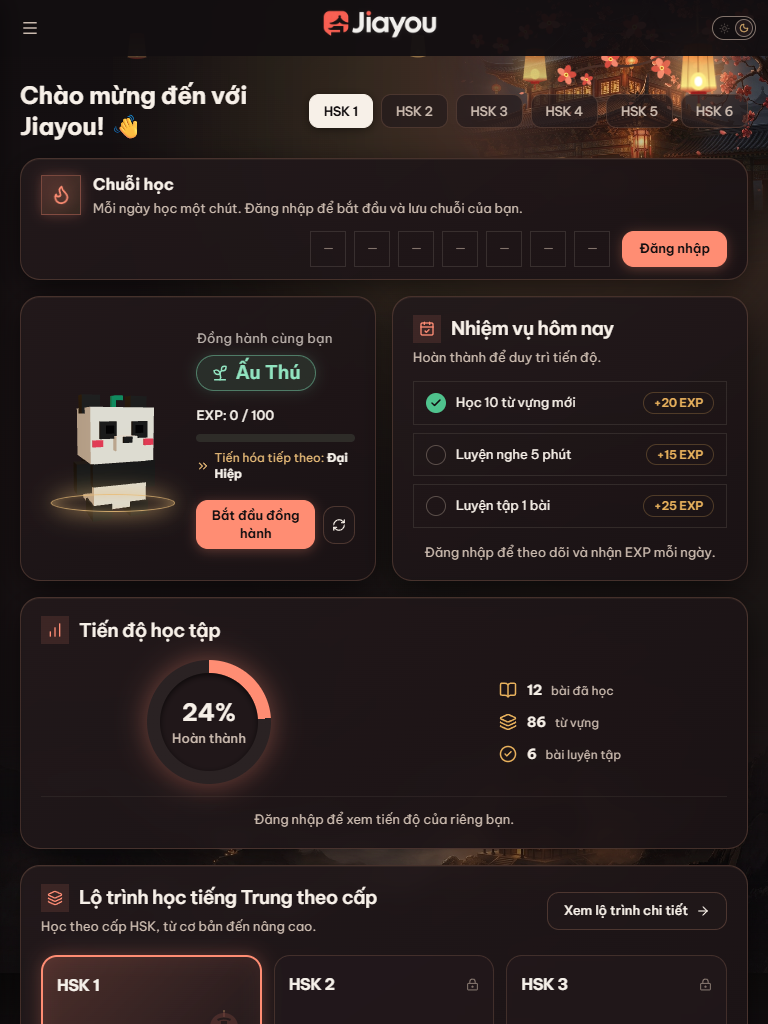
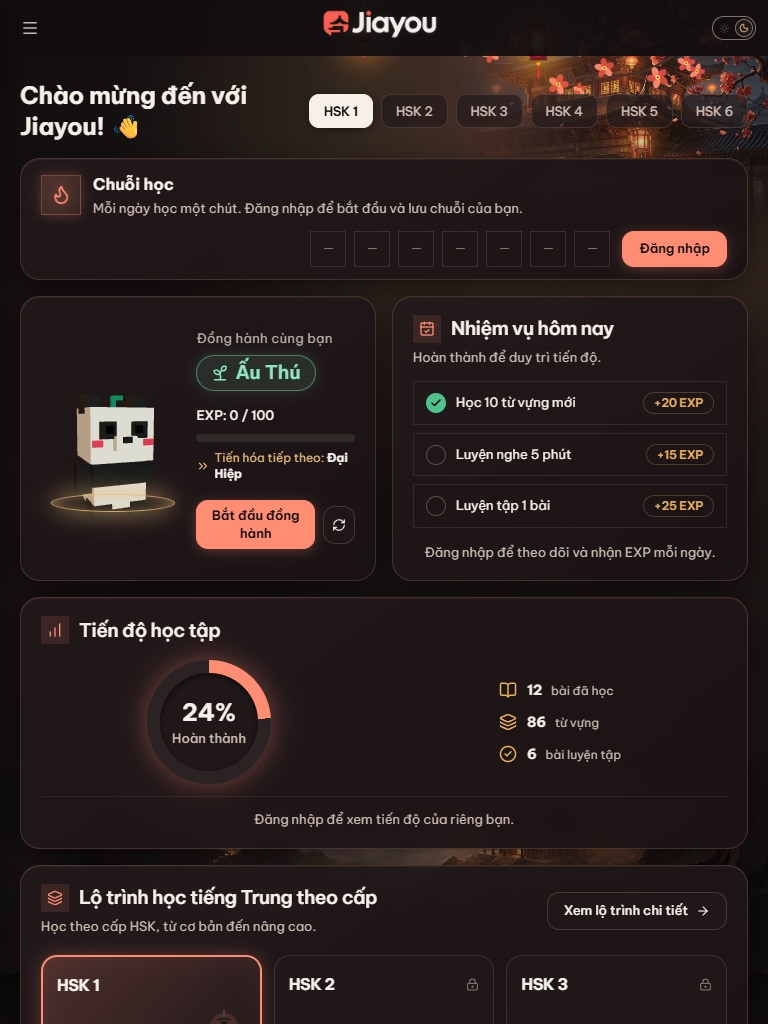
fix(ui): upgrade lanterns to authentic Chinese palace lanterns matching approved reference

Changed region(s): [[0.625, 0.0312, 0.8125, 0.0938], [0.8438, 0.0312, 0.9688, 0.125], [0.4375, 0.0312, 0.5, 0.0625]]

diff --git a/frontend/src/components/OrientalDecorBackground.tsx b/frontend/src/components/OrientalDecorBackground.tsx
@@ -4,12 +4,130 @@ import { useEffect, useState } from 'react';
  * OrientalDecorBackground:
  * Authentic Chinese Imperial Night Sky & Citadel Atmosphere matching the approved reference design.
  * Features:
- * 1. Warm glowing hanging lanterns (Khổng Minh Đăng - 孔明灯) with radiant amber glow & gentle sway.
+ * 1. Traditional Chinese Palace Lanterns (Cung Đăng - 宫灯) with radiant amber glow & gentle sway.
  * 2. Ancient Chinese imperial citadel / palace / capital silhouette (Hoàng Thành & Môn Lâu) in top-right.
  * 3. Blooming vermilion cherry blossom branches (Cành Đào Son) in top-right with drifting petals.
  * 4. Layered Three Kingdoms mountain pass & illuminated ancient pagoda on the misty horizon.
  * 5. Multi-layer ambient warm lighting gradients (#120E10, #181214, #FF8D73).
  */
+interface LanternProps {
+  width?: number;
+  height?: number;
+  stringHeight?: number;
+  glowInset?: number;
+  glowBlur?: number;
+  glowOpacity?: number;
+}
+
+function ChinesePalaceLantern({
+  width = 38,
+  height = 60,
+  stringHeight = 22,
+  glowInset = -16,
+  glowBlur = 14,
+  glowOpacity = 0.55,
+}: LanternProps) {
+  return (
+    <div className="relative flex flex-col items-center select-none">
+      {/* Hanging silk cord */}
+      <div
+        className="w-[1.2px] bg-gradient-to-b from-[#78716C] via-[#B45309] to-[#F59E0B] opacity-80"
+        style={{ height: `${stringHeight}px` }}
+      />
+      <div
+        className="relative"
+        style={{ width: `${width}px`, height: `${height}px`, marginTop: '-2px' }}
+      >
+        {/* Layer 1: Intense Inner Amber Halo */}
+        <div
+          className="absolute rounded-full pointer-events-none"
+          style={{
+            inset: `${glowInset}px`,
+            background: `radial-gradient(circle, rgba(251, 191, 36, ${glowOpacity}) 0%, rgba(249, 115, 22, ${glowOpacity * 0.6}) 40%, rgba(220, 38, 38, ${glowOpacity * 0.22}) 65%, transparent 80%)`,
+            filter: `blur(${glowBlur}px)`,
+          }}
+        />
+        {/* Layer 2: Soft Atmospheric Night Room Glow */}
+        <div
+          className="absolute rounded-full pointer-events-none"
+          style={{
+            inset: `${glowInset * 1.8}px`,
+            background: `radial-gradient(circle, rgba(255, 141, 115, ${glowOpacity * 0.35}) 0%, rgba(243, 193, 111, ${glowOpacity * 0.2}) 45%, transparent 75%)`,
+            filter: `blur(${glowBlur * 1.7}px)`,
+          }}
+        />
+
+        <svg
+          viewBox="0 0 48 76"
+          fill="none"
+          className="w-full h-full drop-shadow-[0_0_14px_rgba(251,191,36,0.65)]"
+        >
+          <defs>
+            <radialGradient id="lantern-body-grad" cx="50%" cy="46%" r="52%">
+              <stop offset="0%" stopColor="#FFFFFF" />
+              <stop offset="16%" stopColor="#FEF08A" />
+              <stop offset="42%" stopColor="#FBBF24" />
+              <stop offset="68%" stopColor="#F97316" />
+              <stop offset="86%" stopColor="#DC2626" />
+              <stop offset="100%" stopColor="#881337" />
+            </radialGradient>
+            <linearGradient id="lantern-cap-grad" x1="0%" y1="0%" x2="0%" y2="100%">
+              <stop offset="0%" stopColor="#6B1D1D" />
+              <stop offset="100%" stopColor="#2D0606" />
+            </linearGradient>
+            <filter id="lantern-flame-blur" x="-30%" y="-30%" width="160%" height="160%">
+              <feGaussianBlur stdDeviation="2" />
+            </filter>
+          </defs>
+
+          {/* Top suspension loop */}
+          <circle cx="24" cy="2.5" r="2" stroke="#B45309" strokeWidth="0.9" fill="none" />
+
+          {/* Top Cap (Mahogany / Oxblood wooden lid with gold accent) */}
+          <rect x="13" y="4" width="22" height="3.2" rx="1.2" fill="url(#lantern-cap-grad)" />
+          <line x1="14" y1="4.6" x2="34" y2="4.6" stroke="#FBBF24" strokeWidth="0.6" opacity="0.8" />
+
+          {/* Traditional Chinese Barrel Silk Body */}
+          <path
+            d="M 14 7 Q 24 6.2 34 7 Q 38 28 34 49 Q 24 49.8 14 49 Q 10 28 14 7 Z"
+            fill="url(#lantern-body-grad)"
+          />
+
+          {/* Vertical Bamboo Ribs (Nan tre dọc 3D) */}
+          <line x1="24" y1="7" x2="24" y2="49" stroke="#78350F" strokeWidth="0.8" opacity="0.65" />
+          <path d="M 19 7 Q 15 28 19 49" stroke="#78350F" strokeWidth="0.75" fill="none" opacity="0.55" />
+          <path d="M 29 7 Q 33 28 29 49" stroke="#78350F" strokeWidth="0.75" fill="none" opacity="0.55" />
+          <path d="M 14 7 Q 10 28 14 49" stroke="#991B1B" strokeWidth="0.85" fill="none" opacity="0.5" />
+          <path d="M 34 7 Q 38 28 34 49" stroke="#991B1B" strokeWidth="0.85" fill="none" opacity="0.5" />
+
+          {/* Horizontal Structural Rings (Nan vành ngang lụa) */}
+          <path d="M 11.8 19 Q 24 21.5 36.2 19" stroke="#9A3412" strokeWidth="0.65" fill="none" opacity="0.5" />
+          <path d="M 10 28 Q 24 31 38 28" stroke="#9A3412" strokeWidth="0.65" fill="none" opacity="0.5" />
+          <path d="M 11.8 37 Q 24 39.5 36.2 37" stroke="#9A3412" strokeWidth="0.65" fill="none" opacity="0.5" />
+
+          {/* Glowing Candle Flame Core */}
+          <ellipse cx="24" cy="27" rx="8" ry="10.5" fill="#FEF08A" opacity="0.85" filter="url(#lantern-flame-blur)" />
+          <ellipse cx="24" cy="27" rx="4" ry="6" fill="#FFFFFF" opacity="0.95" />
+
+          {/* Bottom Cap (Mahogany / Oxblood collar with gold accent) */}
+          <rect x="13" y="48.8" width="22" height="3.2" rx="1.2" fill="url(#lantern-cap-grad)" />
+          <line x1="14" y1="51.4" x2="34" y2="51.4" stroke="#FBBF24" strokeWidth="0.6" opacity="0.8" />
+
+          {/* Golden Bead (Hạt ngọc hoàng kim) */}
+          <line x1="24" y1="52" x2="24" y2="54.5" stroke="#B91C1C" strokeWidth="1.2" />
+          <circle cx="24" cy="56" r="2.2" fill="#FBBF24" stroke="#D97706" strokeWidth="0.5" />
+
+          {/* Flowing Red Silk Tassel (Tua rua lụa đỏ - 流苏) */}
+          <path d="M 22.8 58.2 L 25.2 58.2 L 25.8 72.5 L 24 75 L 22.2 72.5 Z" fill="#DC2626" opacity="0.95" />
+          <line x1="23.2" y1="58.5" x2="22.6" y2="72.5" stroke="#B91C1C" strokeWidth="0.75" opacity="0.85" />
+          <line x1="24.8" y1="58.5" x2="25.4" y2="72.5" stroke="#B91C1C" strokeWidth="0.75" opacity="0.85" />
+          <line x1="24" y1="58.5" x2="24" y2="74" stroke="#F87171" strokeWidth="0.85" opacity="0.9" />
+        </svg>
+      </div>
+    </div>
+  );
+}
+
 export function OrientalDecorBackground() {
   const [isScrolled, setIsScrolled] = useState(false);
 
@@ -61,7 +179,7 @@ export function OrientalDecorBackground() {
       </div>
 
       {/* 3. Top-Right Blooming Cherry Blossom Branch (Cành Hoa Đào Son) */}
-      <div className="absolute -top-3 right-0 w-[460px] max-w-[48vw] h-[190px] pointer-events-none">
+      <div className="absolute -top-3 right-0 w-[520px] max-w-[50vw] h-[210px] pointer-events-none">
         <svg
           viewBox="0 0 540 220"
           fill="none"
@@ -158,210 +276,42 @@ export function OrientalDecorBackground() {
         </svg>
       </div>
 
-      {/* 4. Floating Kongming Lanterns (Khổng Minh Đăng - 孔明灯) */}
+      {/* 4. Authentic Chinese Hanging Palace Lanterns (Cung Đăng - 宫灯) */}
       <div
         data-lanterns
         className={`absolute inset-x-0 top-0 h-[480px] pointer-events-none transition-opacity duration-300 motion-reduce:transition-none ${
           isScrolled ? 'opacity-0' : 'opacity-100'
         }`}
       >
-        {/* Prominent Hanging Lantern 1 (Top Center-Right, exactly like the reference mockup) */}
+        {/* Lantern 2: Prominent Blossom Lantern (hanging from cherry blossom branch above HSK tabs) */}
         <div
-          className="absolute right-[5.5%] top-0 z-10 animate-lantern-sway"
-          style={{ animationDuration: '6.5s' }}
+          className="absolute right-[27.5%] top-0 z-10 animate-lantern-sway"
+          style={{ animationDuration: '7s' }}
         >
-          {/* Hanging string */}
-          <div className="w-[1.5px] h-9 bg-gradient-to-b from-stone-600 to-[#F3C16F] mx-auto opacity-70" />
-          <div className="relative w-14 h-20 -mt-0.5">
-            {/* Outer Radiant Glow */}
-            <div
-              className="absolute inset-[-14px] rounded-full pointer-events-none"
-              style={{
-                background:
-                  'radial-gradient(circle, rgba(243, 193, 111, 0.48) 0%, rgba(255, 141, 115, 0.28) 45%, transparent 75%)',
-                filter: 'blur(10px)',
-              }}
-            />
-            <svg
-              viewBox="0 0 56 72"
-              fill="none"
-              className="w-full h-full drop-shadow-[0_0_22px_rgba(243,193,111,0.7)]"
-            >
-              {/* Outer Lantern Silk Shell */}
-              <path
-                d="M 14 10 Q 28 6 42 10 L 46 54 Q 28 62 10 54 Z"
-                fill="url(#lantern-main-grad)"
-                opacity="0.96"
-              />
-              {/* Bamboo Ribs */}
-              <line
-                x1="28"
-                y1="8"
-                x2="28"
-                y2="58"
-                stroke="#78350F"
-                strokeWidth="0.9"
-                opacity="0.6"
-              />
-              <line
-                x1="19"
-                y1="9"
-                x2="17"
-                y2="55"
-                stroke="#78350F"
-                strokeWidth="0.7"
-                opacity="0.5"
-              />
-              <line
-                x1="37"
-                y1="9"
-                x2="39"
-                y2="55"
-                stroke="#78350F"
-                strokeWidth="0.7"
-                opacity="0.5"
-              />
-              {/* Inner Glowing Candle / Flame Core */}
-              <ellipse
-                cx="28"
-                cy="46"
-                rx="8"
-                ry="9"
-                fill="#FEF08A"
-                opacity="0.95"
-              />
-              <ellipse
-                cx="28"
-                cy="46"
-                rx="4"
-                ry="5"
-                fill="#FFFFFF"
-                opacity="0.98"
-              />
-              {/* Bottom Vermilion Wooden Collar & Tassel Ring */}
-              <rect
-                x="20"
-                y="56"
-                width="16"
-                height="4"
-                rx="2"
-                fill="#991B1B"
-                opacity="0.9"
-              />
-              <line
-                x1="28"
-                y1="60"
-                x2="28"
-                y2="70"
-                stroke="#B91C1C"
-                strokeWidth="1.5"
-                opacity="0.8"
-              />
-              <circle cx="28" cy="70" r="2" fill="#F3C16F" />
-            </svg>
-          </div>
+          <ChinesePalaceLantern
+            width={38}
+            height={60}
+            stringHeight={24}
+            glowInset={-16}
+            glowBlur={14}
+            glowOpacity={0.55}
+          />
         </div>
 
-        {/* Lantern 2 - Mid distance, soft drift */}
+        {/* Lantern 1: Central Sky Lantern (hanging above the greeting / HSK 1 level selector) */}
         <div
-          className="absolute right-[28%] top-5 opacity-80"
-          style={{ animationDuration: '8s', animationDelay: '-1.5s' }}
+          className="hidden sm:block absolute right-[50.5%] top-0 z-10 animate-lantern-sway"
+          style={{ animationDuration: '8.5s', animationDelay: '-2.5s' }}
         >
-          <div className="w-[1px] h-6 bg-stone-600 mx-auto opacity-50" />
-          <div className="relative w-9 h-12">
-            <div
-              className="absolute inset-[-8px] rounded-full pointer-events-none"
-              style={{
-                background:
-                  'radial-gradient(circle, rgba(243, 193, 111, 0.38) 0%, transparent 70%)',
-                filter: 'blur(6px)',
-              }}
-            />
-            <svg
-              viewBox="0 0 48 64"
-              fill="none"
-              className="w-full h-full drop-shadow-[0_0_12px_rgba(243,193,111,0.5)]"
-            >
-              <path
-                d="M 12 8 Q 24 4 36 8 L 40 48 Q 24 54 8 48 Z"
-                fill="url(#lantern-main-grad)"
-                opacity="0.92"
-              />
-              <ellipse
-                cx="24"
-                cy="40"
-                rx="6"
-                ry="7"
-                fill="#FEF08A"
-                opacity="0.92"
-              />
-              <rect
-                x="18"
-                y="50"
-                width="12"
-                height="3"
-                rx="1.5"
-                fill="#B91C1C"
-                opacity="0.8"
-              />
-              <line
-                x1="24"
-                y1="53"
-                x2="24"
-                y2="61"
-                stroke="#B91C1C"
-                strokeWidth="1"
-                opacity="0.7"
-              />
-            </svg>
-          </div>
+          <ChinesePalaceLantern
+            width={32}
+            height={50}
+            stringHeight={18}
+            glowInset={-13}
+            glowBlur={11}
+            glowOpacity={0.48}
+          />
         </div>
-
-        {/* Lantern 3 - Far distance, tiny gentle glow */}
-        <div
-          className="absolute right-[44%] top-8 opacity-55"
-          style={{ animationDuration: '10s', animationDelay: '-4s' }}
-        >
-          <div className="relative w-6 h-8">
-            <svg viewBox="0 0 48 64" fill="none" className="w-full h-full">
-              <path
-                d="M 12 8 Q 24 4 36 8 L 40 48 Q 24 54 8 48 Z"
-                fill="#F3C16F"
-                opacity="0.85"
-              />
-              <ellipse cx="24" cy="40" rx="5" ry="5" fill="#FEF08A" />
-            </svg>
-          </div>
-        </div>
-
-        {/* Lantern 4 - Distant Left Sky */}
-        <div
-          className="hidden sm:block absolute left-[16%] top-7 opacity-40"
-          style={{ animationDuration: '9s', animationDelay: '-3s' }}
-        >
-          <div className="relative w-7 h-10">
-            <svg viewBox="0 0 48 64" fill="none" className="w-full h-full">
-              <path
-                d="M 12 8 Q 24 4 36 8 L 40 48 Q 24 54 8 48 Z"
-                fill="url(#lantern-main-grad)"
-                opacity="0.8"
-              />
-              <ellipse cx="24" cy="40" rx="5" ry="6" fill="#FEF08A" opacity="0.85" />
-            </svg>
-          </div>
-        </div>
-
-        {/* Gradients */}
-        <svg className="absolute w-0 h-0" aria-hidden="true">
-          <defs>
-            <linearGradient id="lantern-main-grad" x1="0%" y1="0%" x2="0%" y2="100%">
-              <stop offset="0%" stopColor="#EA580C" stopOpacity="0.85" />
-              <stop offset="45%" stopColor="#F3C16F" stopOpacity="0.95" />
-              <stop offset="85%" stopColor="#FEF08A" stopOpacity="0.98" />
-              <stop offset="100%" stopColor="#B91C1C" stopOpacity="0.9" />
-            </linearGradient>
-          </defs>
-        </svg>
       </div>
 
       {/* 5. Bottom Horizon: Panoramic Misty Mountains & Second Illuminated Imperial Pagoda / City */}

diff --git a/docs/Design/JIAYOU-DASHBOARD-VISUAL-ACCEPTANCE.md b/docs/Design/JIAYOU-DASHBOARD-VISUAL-ACCEPTANCE.md
@@ -15,7 +15,8 @@
 | **1. Revert to Approved Baseline** | Revert all unwarranted changes from V5 that stripped floral overlays, shifted lanterns, modified bottom scenery, or added boxed overlays. | Restored full approved V4 baseline: ambient lighting, floating lanterns, SVG cherry blossoms, bottom mountainscape, and `.hsk-pill` styling. | **DONE** |
 | **2. Transparent Jiayou Wordmark** | Restore Jiayou brand logo to transparent, integrated look sitting naturally on sidebar surface; remove solid background box. | Removed `bg-brand-surface p-1` from [`BrandLogo.tsx`](file:///d:/GitHub/jiayou/frontend/src/components/BrandLogo.tsx); logo now sits with 100% transparent background directly on sidebar. | **DONE** |
 | **3. Smaller, Corner Palace** | Reduce displayed size noticeably, anchor in upper-right corner, ensure soft blending with NO rectangular pasted image feel. | Container tuned to `w-[540px] max-w-[48vw] h-[300px] max-h-[35vh]` (~37% smaller than V4); mask feathers smoothly to transparent by 92% radius with 0% opacity at all boundaries. | **DONE** |
-| **4. Content Preservation** | No other unrelated UI redesign. Preserve cards, companion, streak, roadmap, typography, and dark warm palette. | 100% preserved identical to approved version. | **DONE** |
+| **4. Traditional Chinese Palace Lanterns** | Upgrade hanging lanterns to high-fidelity traditional Chinese palace/barrel lanterns (Cung Đăng - 宫灯) matching approved reference; eliminate crude small trapezoidal shapes and cluttered placement. | Custom SVG with barrel/convex curved silhouette, mahogany caps with gold trim, multi-stop radiant amber-vermilion gradient, 3D bamboo vertical ribs & horizontal rings, luminous candle flame core, golden beads, and flowing red silk tassels. Perfectly positioned at `right: 27.5%` (nestled under cherry blossom branch) and `right: 50.5%` (open center sky). | **DONE** |
+| **5. Content Preservation** | No other unrelated UI redesign. Preserve cards, companion, streak, roadmap, typography, and dark warm palette. | 100% preserved identical to approved version. | **DONE** |
 
 ---
 
